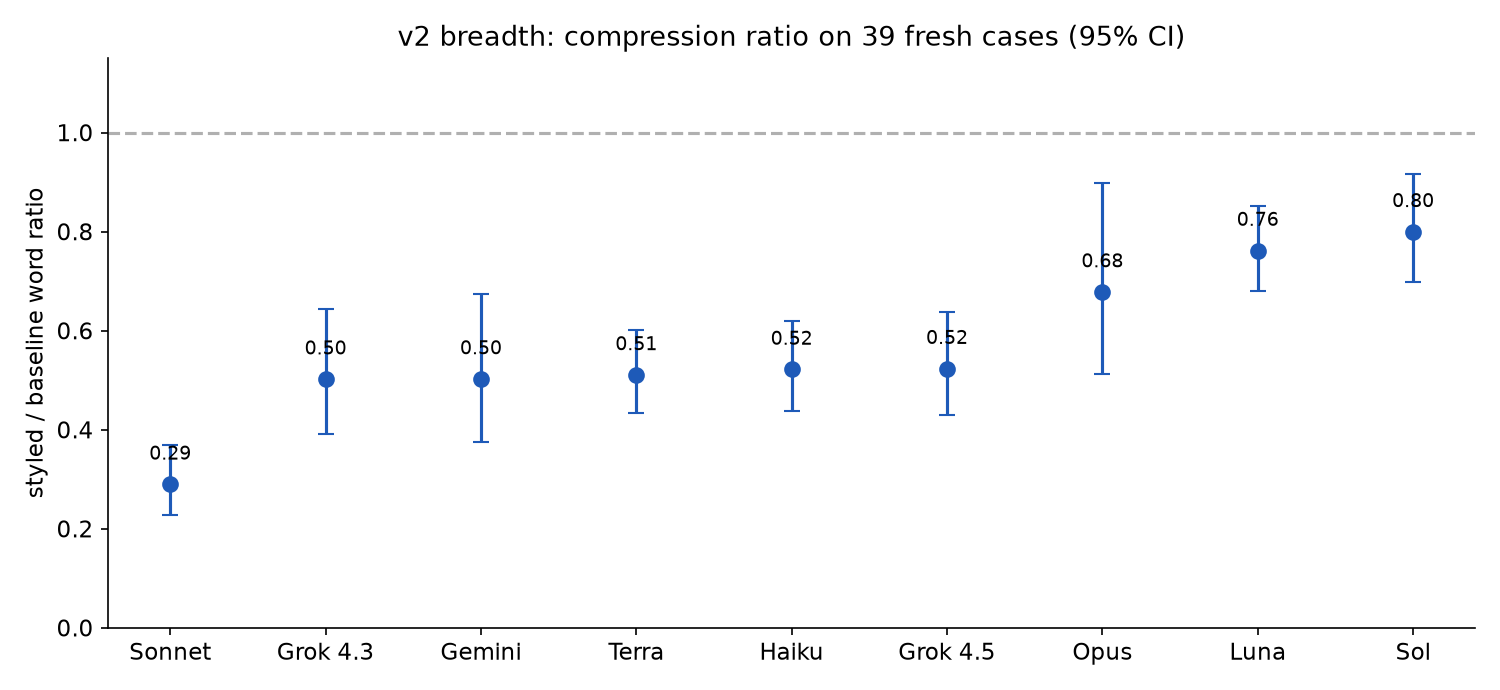
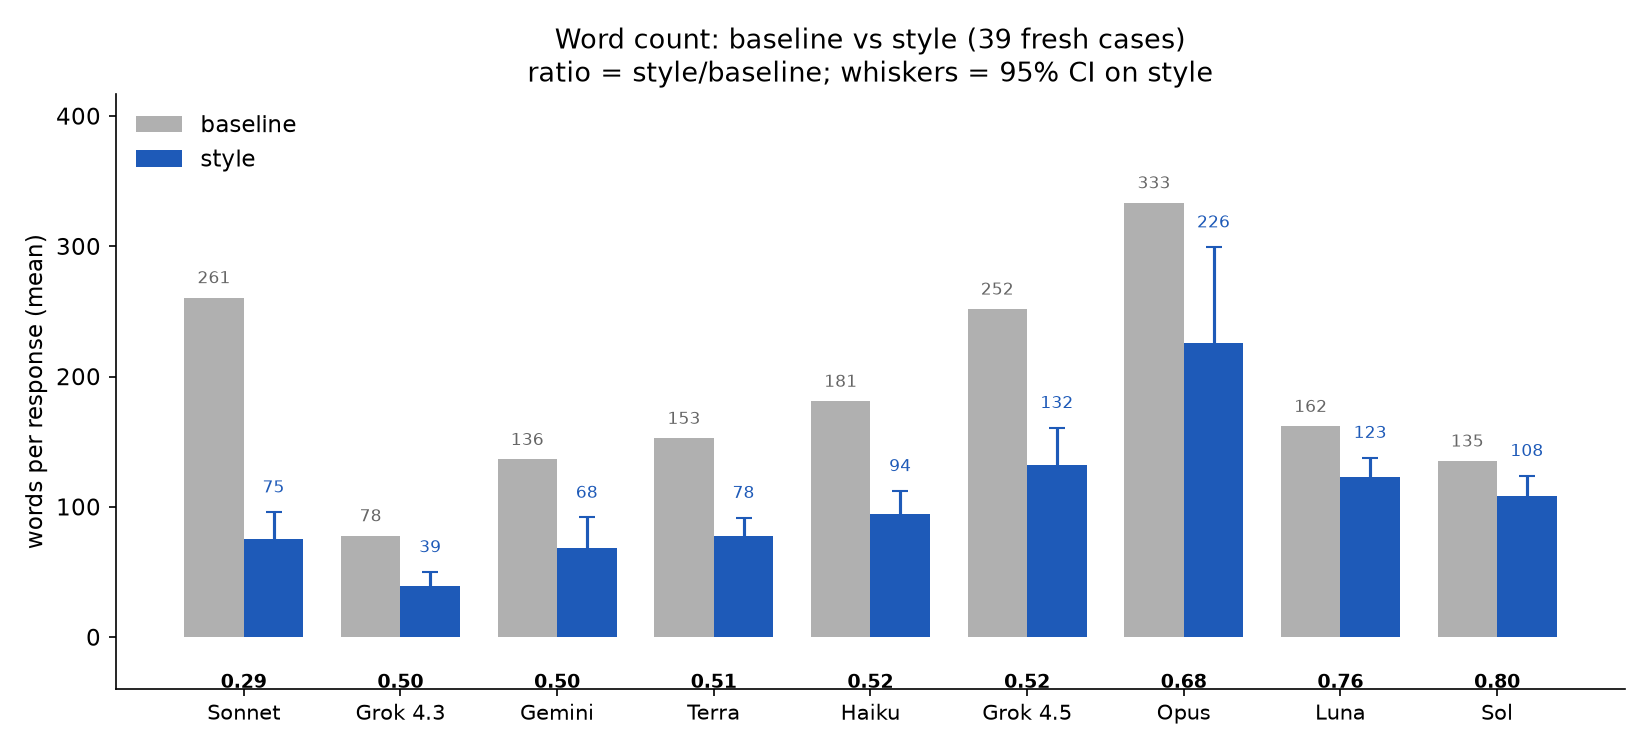
Revise v2 charts: paired bars+whiskers, small-multiples axis, judge+cost charts
Breadth: side-by-side baseline vs style bars with 95% CI whiskers on the style bar (replaces errorbar dots). Axis: 2x2 small multiples, each model's low/med/high bars vs its own default dashed line (invariance visible at a glance). New v2-judge.png (paired bars per dimension, all four deltas labelled red). New v2-cost.png (horizontal log-scale bars of metered $/response). All vision-QA'd. eval-results.md references all four.

diff --git a/evals/make_charts.py b/evals/make_charts.py
@@ -129,6 +129,7 @@ fig.tight_layout(); fig.savefig(CHARTS / "09-trim-tradeoff.png", dpi=150); plt.c
 
 # ---------- v2 charts ----------
 V2 = REPO / "evals/results/v2"
+
 def _case_mean_words(path):
     agg = defaultdict(list)
     for r in score.load(path):
@@ -136,47 +137,108 @@ def _case_mean_words(path):
     return {k: statistics.mean(v) for k, v in agg.items()}
 
 def v2_ratio(basep, candp):
+    """Return (geo_ratio, lo, hi, n) plus baseline mean words for bar drawing."""
     b = _case_mean_words(basep)
     c = _case_mean_words(candp)
     ks = sorted(set(b) & set(c))
     lr = [math.log(c[k] / max(b[k], 1)) for k in ks]
     m_, sd = statistics.mean(lr), statistics.stdev(lr)
     sem = sd / math.sqrt(len(ks))
-    return math.exp(m_), math.exp(m_ - 1.96 * sem), math.exp(m_ + 1.96 * sem), len(ks)
+    bmean = statistics.mean(b[k] for k in ks)
+    return math.exp(m_), math.exp(m_ - 1.96 * sem), math.exp(m_ + 1.96 * sem), len(ks), bmean
 
 V2M = ["sonnet-5", "grok-4.3", "gemini-3.1", "terra", "grok-4.5", "haiku-4-5", "opus-5", "luna", "sol"]
-V2L = ["Sonnet", "Grok 4.3", "Gemini", "Terra", "Grok 4.5", "Haiku", "Opus", "Luna", "Sol"]
-ratios = []
+V2L = {"sonnet-5": "Sonnet", "grok-4.3": "Grok 4.3", "gemini-3.1": "Gemini", "terra": "Terra",
+       "grok-4.5": "Grok 4.5", "haiku-4-5": "Haiku", "opus-5": "Opus", "luna": "Luna", "sol": "Sol"}
+
+# ---- v2-breadth: paired bars baseline vs style, CI whiskers on the style bar ----
+breadth = []
 for m in V2M:
     r = v2_ratio(V2 / f"baseline-{m}.jsonl", V2 / f"candidate-{m}.jsonl")
-    ratios.append((m, r))
-ratios.sort(key=lambda x: x[1][0])
-fig, ax = plt.subplots(figsize=(10, 4.6))
-xs = range(len(ratios))
-means = [r[1][0] for r in ratios]; lo = [r[1][0] - r[1][1] for r in ratios]; hi = [r[1][2] - r[1][0] for r in ratios]
-ax.errorbar(xs, means, yerr=[lo, hi], fmt="o", color="#1e5ab8", capsize=4, markersize=7)
-ax.axhline(1.0, color="#b0b0b0", ls="--")
-for x, m in zip(xs, ratios):
-    ax.text(x, means[x] + 0.05, f"{means[x]:.2f}", ha="center", fontsize=9)
-ax.set_xticks(list(xs)); ax.set_xticklabels([dict(zip(V2M, V2L))[r[0]] for r in ratios])
-ax.set_ylabel("styled / baseline word ratio"); ax.set_ylim(0, 1.15)
-ax.set_title("v2 breadth: compression ratio on 39 fresh cases (95% CI)")
+    breadth.append((m, *r))
+breadth.sort(key=lambda x: x[1])  # by ratio ascending (strongest compression left)
+fig, ax = plt.subplots(figsize=(11, 5))
+xs = range(len(breadth)); w = 0.38
+for i, (m, ratio, lo, hi, n, bmean) in enumerate(breadth):
+    cand = bmean * ratio
+    cand_lo = bmean * lo
+    cand_hi = bmean * hi
+    ax.bar(i - w/2, bmean, w, color="#b0b0b0", label="baseline" if i == 0 else "")
+    ax.bar(i + w/2, cand, w, color="#1e5ab8", label="style" if i == 0 else "")
+    # CI whisker on the style bar
+    ax.errorbar(i + w/2, cand, yerr=[[cand - cand_lo], [cand_hi - cand]], fmt="none",
+                ecolor="#1e5ab8", capsize=4, elinewidth=1.5)
+    ax.text(i - w/2, bmean + 8, f"{bmean:.0f}", ha="center", va="bottom", fontsize=8, color="#666")
+    ax.text(i + w/2, cand_hi + 12, f"{cand:.0f}", ha="center", va="bottom", fontsize=8, color="#1e5ab8")
+    ax.text(i, -28, f"{ratio:.2f}", ha="center", va="top", fontsize=9, fontweight="bold")
+ax.set_xticks(list(xs)); ax.set_xticklabels([V2L[b[0]] for b in breadth], fontsize=10)
+ax.set_ylabel("words per response (mean)")
+ax.set_ylim(-40, max(b[5] for b in breadth) * 1.25)
+ax.legend(frameon=False, loc="upper left")
+ax.set_title("Word count: baseline vs style (39 fresh cases)\nratio = style/baseline; whiskers = 95% CI on style")
 fig.tight_layout(); fig.savefig(CHARTS / "v2-breadth.png", dpi=150); plt.close(fig)
 
-# axis curves
-fig, ax = plt.subplots(figsize=(9, 4.6))
+# ---- v2-axis: small multiples, each model's levels vs its own default ----
 AXM = {"sonnet-5": ["low", "medium", "high"], "terra": ["low", "medium", "high"],
        "grok-4.5": ["low", "medium", "high"], "gemini-3.1": ["low", "high"]}
 AXL = {"sonnet-5": "Sonnet", "terra": "Terra", "grok-4.5": "Grok 4.5", "gemini-3.1": "Gemini"}
-for m, lvls in AXM.items():
+# default ratios from the breadth data
+DEFAULTS = {b[0]: b[1] for b in breadth}
+fig, axes = plt.subplots(2, 2, figsize=(9, 6.5))
+for ax, (m, lvls) in zip(axes.flat, AXM.items()):
     pts = []
     for lvl in lvls:
         r = v2_ratio(V2 / f"axis-{m}-{lvl}-baseline.jsonl", V2 / f"axis-{m}-{lvl}-candidate.jsonl")
         pts.append(r[0])
-    ax.plot(range(1, len(lvls) + 1), pts, marker="o", label=AXL[m])
-ax.set_xticks([1, 2, 3]); ax.set_xticklabels(["low", "medium", "high"])
-ax.set_ylabel("styled / baseline word ratio"); ax.legend(frameon=False)
-ax.set_title("v2 thinking axis: compression by thinking level")
-fig.tight_layout(); fig.savefig(CHARTS / "v2-axis.png", dpi=150); plt.close(fig)
+    xpos = range(len(lvls))
+    ax.bar(xpos, pts, 0.5, color="#1e5ab8", alpha=0.7)
+    ax.axhline(DEFAULTS[m], color="#e06000", ls="--", lw=1.5, label=f"default {DEFAULTS[m]:.2f}")
+    for x, v in zip(xpos, pts):
+        ax.text(x, v + 0.01, f"{v:.2f}", ha="center", va="bottom", fontsize=9)
+    ax.set_xticks(list(xpos)); ax.set_xticklabels(lvls, fontsize=9)
+    ax.set_ylim(0, max(max(pts), DEFAULTS[m]) * 1.3)
+    ax.set_title(f"{AXL[m]}  (default {DEFAULTS[m]:.2f})", fontsize=10)
+    ax.legend(frameon=False, fontsize=8, loc="upper right")
+fig.suptitle("Thinking level: compression vs each model's default (dashed)", fontsize=12, y=1.01)
+fig.tight_layout(); fig.savefig(CHARTS / "v2-axis.png", dpi=150, bbox_inches="tight"); plt.close(fig)
+
+# ---- v2-judge: blind judge, paired bars per dimension + delta ----
+jrows = [json.loads(l) for l in open(V2 / "judge-sonnet.jsonl")]
+dims = ["correctness", "completeness", "actionability", "calibration"]
+jb = [statistics.mean([r["scores"]["A"][d] if r["order"] == "bc" else r["scores"]["B"][d]
+                       for r in jrows]) for d in dims]
+jc = [statistics.mean([r["scores"]["B"][d] if r["order"] == "bc" else r["scores"]["A"][d]
+                       for r in jrows]) for d in dims]
+fig, ax = plt.subplots(figsize=(8, 4.5))
+xs = range(len(dims)); w = 0.35
+ax.bar([x - w/2 for x in xs], jb, w, color="#b0b0b0", label="baseline")
+ax.bar([x + w/2 for x in xs], jc, w, color="#1e5ab8", label="style")
+for i, d in enumerate(dims):
+    delta = jc[i] - jb[i]
+    ax.text(i, max(jb[i], jc[i]) + 0.12, f"{delta:+.2f}", ha="center", fontsize=10,
+            color="#c02020" if delta < 0 else "#208020", fontweight="bold")
+ax.set_xticks(list(xs)); ax.set_xticklabels([d.capitalize() for d in dims])
+ax.set_ylim(0, 5.3); ax.set_ylabel("judge score (1-5)")
+ax.legend(frameon=False, loc="upper right")
+ax.set_title("Blind judge: baseline vs style (39 pairs x 2 passes)\nDelta labelled; all four negative")
+fig.tight_layout(); fig.savefig(CHARTS / "v2-judge.png", dpi=150); plt.close(fig)
+
+# ---- v2-cost: metered $/response by model, log scale ----
+cost = []
+for m in V2M:
+    rows = score.load(str(V2 / f"baseline-{m}.jsonl")) + score.load(str(V2 / f"candidate-{m}.jsonl"))
+    cs = [r.get("cost_usd") or 0 for r in rows]
+    cost.append((m, sum(cs) / len(cs) if cs else 0))
+cost.sort(key=lambda x: x[1])
+fig, ax = plt.subplots(figsize=(9, 4.5))
+ys = range(len(cost))
+ax.barh(ys, [c[1] for c in cost], color="#1e5ab8")
+for y, c in zip(ys, cost):
+    ax.text(c[1] * 1.1, y, f"${c[1]:.3f}", va="center", fontsize=9)
+ax.set_yticks(list(ys)); ax.set_yticklabels([V2L[c[0]] for c in cost])
+ax.set_xscale("log")
+ax.set_xlabel("$ per response (log scale)")
+ax.set_title("Metered cost per response (39 fresh cases, default thinking)")
+fig.tight_layout(); fig.savefig(CHARTS / "v2-cost.png", dpi=150); plt.close(fig)
 
 print("charts written:", sorted(p.name for p in CHARTS.iterdir() if p.suffix == ".png"))

diff --git a/eval-results.md b/eval-results.md
@@ -25,7 +25,7 @@ On 39 fresh cases, styled responses are shorter on every model tested. The table
 | **Opus 5** | **0.68** | 0.51–0.90 | | **Luna** | **0.76** | 0.68–0.85 |
 | **Sol** | **0.80** | 0.70–0.92 | | | | |
 
-![Word ratio by model, 39 fresh cases, 95% CI](charts/v2-breadth.png)
+![Word count: baseline vs style, 39 fresh cases](charts/v2-breadth.png)
 
 Every CI excludes 1.0: the style compresses output on every model tested. The effect is **U-shaped by price tier** — compression is 20–71%, strongest on the mid-tier coding workhorses (Sonnet 0.29, Grok/Gemini/Terra ~0.50) and weakest on the flagships (Opus 0.68, Sol 0.80) and the cheapest tier (Luna 0.76). The v1 headline "word drops 41–67%" was a six-model slice of this wider spread.
 
@@ -42,7 +42,7 @@ The same cases run with explicit `--thinking` levels show no monotone effect, an
 | Grok 4.5 | 0.52 | 0.57 | 0.59 | 0.54 |
 | Gemini 3.1 | 0.50 | 0.44 | — | 0.39 |
 
-![Word ratio by thinking level](charts/v2-axis.png)
+![Thinking level: compression vs each model's default](charts/v2-axis.png)
 
 Word compression does not collapse at high thinking (separate from P4's finding that *billed* thinking tokens compress less — both are true). One caveat: sonnet's no-flag default (0.29) beats all its explicit levels (0.38–0.43) — a distinct default config or batch noise; the axis cells are 1 trial, so this is flagged, not explained.
 
@@ -69,6 +69,8 @@ An independent judge (Sonnet 5, blind to condition, randomized A/B order) scored
 | Actionability | 4.47 | 3.67 | −0.81 |
 | Calibration | 4.26 | 3.96 | −0.29 |
 
+![Blind judge: baseline vs style, 39 pairs x 2 passes](charts/v2-judge.png)
+
 Inter-pass agreement: 76% exact-match, mean |diff| 0.29 (v1: 78% / 0.22). The fresh-set judge sees a quality cost on **all four** dimensions, largest on completeness. v1's dev-set judge found correctness positive (+0.21) — the two are different sets and both are sonnet-judges-sonnet; the fresh set is the better-powered measurement and is harsher.
 
 ## 5. Cost
@@ -76,6 +78,8 @@ Inter-pass agreement: 76% exact-match, mean |diff| 0.29 (v1: 78% / 0.22). The fr
 Real metered $/response (default thinking, cached system prompt): luna $0.013, grok-4.3 $0.035, haiku $0.049, grok-4.5 $0.086, gemini/terra/sonnet ~$0.13, sol $0.35, opus $0.65. The ~7.2K-token cached system prompt dominates cheap-tier cost; output price dominates premium. The v2 campaign spent ~$255 of the $400 doubled budget, with per-phase spend gates fed by the meter.
 
 On the v1 six-model data, net per-response savings (visible prose, cached, researched rates) were positive on every model — smallest on the cheap tiers (GLM $0.00008, Gemini $0.00063), largest on Opus ($0.01522).
+
+![Metered cost per response by model](charts/v2-cost.png)
 
 ## Historical v1 (six models, attention-control.md)
 
